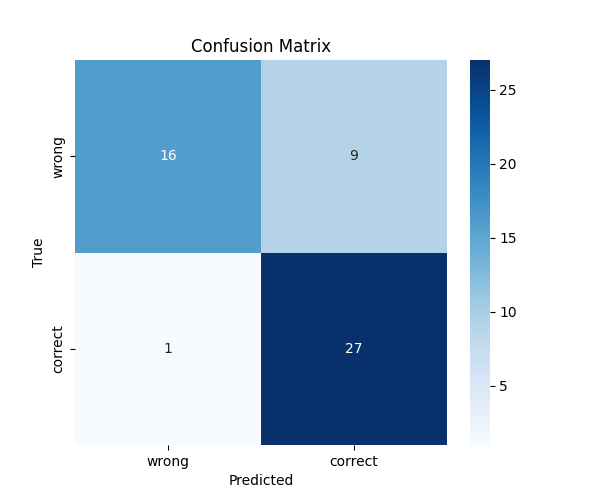
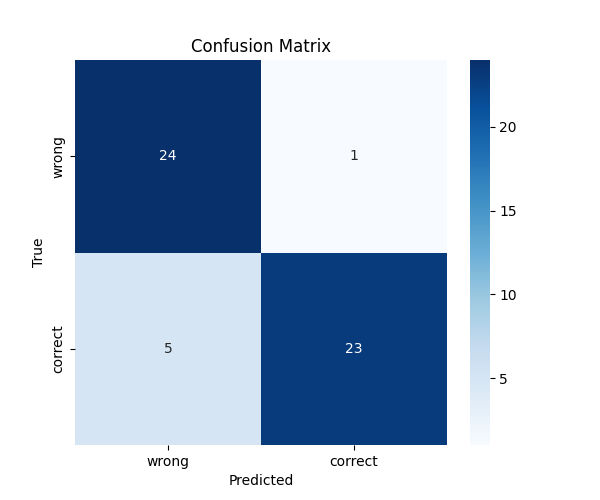
updated with gru

diff --git a/classification_models/mediapipe/gru/train.py b/classification_models/mediapipe/gru/train.py
@@ -1,0 +1,155 @@
+import os
+import json
+import numpy as np
+import matplotlib.pyplot as plt
+import seaborn as sns # type: ignore
+from sklearn.metrics import confusion_matrix, accuracy_score # type: ignore
+from sklearn.model_selection import train_test_split # type: ignore
+from tensorflow.keras import layers, models, preprocessing # type: ignore
+
+# --- Setup results directory ---
+CURRENT_DIR = os.path.dirname(os.path.abspath(__file__))
+RESULTS_DIR = os.path.join(CURRENT_DIR, "results")
+os.makedirs(RESULTS_DIR, exist_ok=True)
+
+# --- Constants ---
+DATA_ROOT = "datasets/json/mediapipe"
+LABELS = {"correct": 1, "wrong": 0}
+NUM_KEYPOINTS = 33  # MediaPipe keypoints
+FEATURE_DIM = NUM_KEYPOINTS * 3  # x, y, z for each keypoint
+MAX_SEQ_LEN = 50  # Max number of frames per sequence
+EPOCHS = 100
+BATCH_SIZE = 16
+
+def extract_sequence_from_json(json_path):
+    with open(json_path, "r") as f:
+        data = json.load(f)
+    
+    sequence = []
+    for frame in data:
+        keypoints = frame.get("keypoints", [])
+        if len(keypoints) != NUM_KEYPOINTS:
+            # Skip frames that don't have expected number of keypoints
+            continue
+        flattened = []
+        for kp in keypoints:
+            flattened.extend([kp["x"], kp["y"], kp["z"]])
+        sequence.append(flattened)
+    return sequence
+
+def load_dataset():
+    X, y = [], []
+    for label in LABELS:
+        folder = os.path.join(DATA_ROOT, label)
+        for file in os.listdir(folder):
+            if file.endswith(".json"):
+                seq = extract_sequence_from_json(os.path.join(folder, file))
+                if seq:
+                    X.append(seq)
+                    y.append(LABELS[label])
+    return X, y
+
+def pad_sequences(X, maxlen=MAX_SEQ_LEN):
+    # Pad sequences to maxlen with zeros
+    padded = preprocessing.sequence.pad_sequences(
+        X, maxlen=maxlen, dtype='float32', padding='post', truncating='post', value=0.0
+    )
+    return padded
+
+def build_gru_model(input_shape):
+    model = models.Sequential([
+        layers.Masking(mask_value=0., input_shape=input_shape),
+        layers.GRU(64, return_sequences=True),
+        layers.GRU(32),
+        layers.Dense(32, activation='relu'),
+        layers.Dense(1, activation='sigmoid')
+    ])
+    model.compile(optimizer='adam', loss='binary_crossentropy', metrics=['accuracy'])
+    return model
+
+def main():
+    print("📦 Loading MediaPipe dataset...")
+    X_raw, y = load_dataset()
+    print(f"✅ Loaded {len(X_raw)} samples.")
+
+    # Pad sequences
+    X = pad_sequences(X_raw, maxlen=MAX_SEQ_LEN)
+    y = np.array(y)
+
+    # Split into train and val
+    X_train, X_val, y_train, y_val = train_test_split(X, y, test_size=0.2, random_state=42)
+
+    print(f"Training samples: {len(X_train)} | Validation samples: {len(X_val)}")
+
+    # Build model
+    model = build_gru_model(input_shape=(MAX_SEQ_LEN, FEATURE_DIM))
+
+    # Train
+    history = model.fit(
+        X_train, y_train,
+        epochs=EPOCHS,
+        batch_size=BATCH_SIZE,
+        validation_data=(X_val, y_val),
+        verbose=2
+    )
+
+    # Predict validation
+    y_val_pred_prob = model.predict(X_val).flatten()
+    y_val_pred = (y_val_pred_prob >= 0.5).astype(int)
+
+    # Metrics
+    train_acc = history.history['accuracy'][-1]
+    val_acc = history.history['val_accuracy'][-1]
+    total_acc = accuracy_score(y_val, y_val_pred)
+
+    print(f"Training accuracy: {train_acc:.4f}")
+    print(f"Validation accuracy: {val_acc:.4f}")
+    print(f"Total accuracy on validation set: {total_acc:.4f}")
+
+    # Confusion matrix
+    cm = confusion_matrix(y_val, y_val_pred)
+    plt.figure(figsize=(6,5))
+    sns.heatmap(cm, annot=True, fmt='d', cmap='Blues', xticklabels=['wrong', 'correct'], yticklabels=['wrong', 'correct'])
+    plt.title("Confusion Matrix")
+    plt.xlabel("Predicted")
+    plt.ylabel("True")
+    plt.tight_layout()
+    cm_path = os.path.join(RESULTS_DIR, "confusion_matrix.png")
+    plt.savefig(cm_path)
+    plt.close()
+
+    # Plot loss curves
+    plt.figure(figsize=(8,5))
+    plt.plot(history.history['loss'], label='Training Loss')
+    plt.plot(history.history['val_loss'], label='Validation Loss')
+    plt.xlabel('Epoch')
+    plt.ylabel('Loss')
+    plt.title('Training & Validation Loss')
+    plt.legend()
+    plt.tight_layout()
+    loss_path = os.path.join(RESULTS_DIR, "loss_curve.png")
+    plt.savefig(loss_path)
+    plt.close()
+
+    # Breakdown of training/validation samples by class
+    def breakdown_by_class(y_array):
+        unique, counts = np.unique(y_array, return_counts=True)
+        d = dict(zip(unique, counts))
+        return d.get(1, 0), d.get(0, 0)  # correct, wrong
+
+    train_correct, train_wrong = breakdown_by_class(y_train)
+    val_correct, val_wrong = breakdown_by_class(y_val)
+
+    # Write results
+    results_txt = os.path.join(RESULTS_DIR, "results.txt")
+    with open(results_txt, "w") as f:
+        f.write(f"Training accuracy: {train_acc:.4f}\n")
+        f.write(f"Validation accuracy: {val_acc:.4f}\n")
+        f.write(f"Total accuracy (val set): {total_acc:.4f}\n\n")
+        f.write(f"Training samples: {len(y_train)} (Correct: {train_correct}, Wrong: {train_wrong})\n")
+        f.write(f"Validation samples: {len(y_val)} (Correct: {val_correct}, Wrong: {val_wrong})\n")
+
+    print(f"Results saved to {RESULTS_DIR}")
+
+if __name__ == "__main__":
+    main()

diff --git a/classification_models/movenet/gru/train.py b/classification_models/movenet/gru/train.py
@@ -1,0 +1,140 @@
+import os
+import json
+import numpy as np
+import matplotlib.pyplot as plt
+import seaborn as sns # type: ignore
+from sklearn.metrics import confusion_matrix, accuracy_score # type: ignore
+from sklearn.model_selection import train_test_split # type: ignore
+from tensorflow.keras import layers, models, preprocessing # type: ignore
+
+# --- Setup results directory ---
+CURRENT_DIR = os.path.dirname(os.path.abspath(__file__))
+RESULTS_DIR = os.path.join(CURRENT_DIR, "results")
+os.makedirs(RESULTS_DIR, exist_ok=True)
+
+# --- Constants ---
+DATA_ROOT = "datasets/json/movenet"
+LABELS = {"correct": 1, "wrong": 0}
+NUM_KEYPOINTS = 17  # MoveNet keypoints
+FEATURE_DIM = NUM_KEYPOINTS * 2  # x, y for each keypoint
+MAX_SEQ_LEN = 50  # Max number of frames per sequence
+
+def extract_sequence_from_json(json_path):
+    with open(json_path, "r") as f:
+        data = json.load(f)
+    
+    sequence = []
+    for frame in data:
+        keypoints = frame.get("keypoints", [])
+        if len(keypoints) != NUM_KEYPOINTS:
+            continue  # Skip if unexpected number of keypoints
+        flattened = []
+        for kp in keypoints:
+            flattened.extend([kp["x"], kp["y"]])
+        sequence.append(flattened)
+    return sequence
+
+def load_dataset():
+    X, y = [], []
+    for label in LABELS:
+        folder = os.path.join(DATA_ROOT, label)
+        for file in os.listdir(folder):
+            if file.endswith(".json"):
+                seq = extract_sequence_from_json(os.path.join(folder, file))
+                if seq:
+                    X.append(seq)
+                    y.append(LABELS[label])
+    return X, y
+
+def pad_sequences(X, maxlen=MAX_SEQ_LEN):
+    padded = preprocessing.sequence.pad_sequences(
+        X, maxlen=maxlen, dtype='float32', padding='post', truncating='post', value=0.0
+    )
+    return padded
+
+def build_gru_model(input_shape):
+    model = models.Sequential([
+        layers.Masking(mask_value=0., input_shape=input_shape),
+        layers.GRU(64, return_sequences=True),
+        layers.GRU(32),
+        layers.Dense(32, activation='relu'),
+        layers.Dense(1, activation='sigmoid')
+    ])
+    model.compile(optimizer='adam', loss='binary_crossentropy', metrics=['accuracy'])
+    return model
+
+def main():
+    print("📦 Loading MoveNet dataset...")
+    X_raw, y = load_dataset()
+    print(f"✅ Loaded {len(X_raw)} samples.")
+
+    X = pad_sequences(X_raw, maxlen=MAX_SEQ_LEN)
+    y = np.array(y)
+
+    X_train, X_val, y_train, y_val = train_test_split(X, y, test_size=0.2, random_state=42)
+    print(f"Training samples: {len(X_train)} | Validation samples: {len(X_val)}")
+
+    model = build_gru_model(input_shape=(MAX_SEQ_LEN, FEATURE_DIM))
+
+    history = model.fit(
+        X_train, y_train,
+        epochs=30,
+        batch_size=16,
+        validation_data=(X_val, y_val),
+        verbose=2
+    )
+
+    y_val_pred_prob = model.predict(X_val).flatten()
+    y_val_pred = (y_val_pred_prob >= 0.5).astype(int)
+
+    train_acc = history.history['accuracy'][-1]
+    val_acc = history.history['val_accuracy'][-1]
+    total_acc = accuracy_score(y_val, y_val_pred)
+
+    print(f"Training accuracy: {train_acc:.4f}")
+    print(f"Validation accuracy: {val_acc:.4f}")
+    print(f"Total accuracy on validation set: {total_acc:.4f}")
+
+    cm = confusion_matrix(y_val, y_val_pred)
+    plt.figure(figsize=(6,5))
+    sns.heatmap(cm, annot=True, fmt='d', cmap='Blues', xticklabels=['wrong', 'correct'], yticklabels=['wrong', 'correct'])
+    plt.title("Confusion Matrix")
+    plt.xlabel("Predicted")
+    plt.ylabel("True")
+    plt.tight_layout()
+    cm_path = os.path.join(RESULTS_DIR, "confusion_matrix.png")
+    plt.savefig(cm_path)
+    plt.close()
+
+    plt.figure(figsize=(8,5))
+    plt.plot(history.history['loss'], label='Training Loss')
+    plt.plot(history.history['val_loss'], label='Validation Loss')
+    plt.xlabel('Epoch')
+    plt.ylabel('Loss')
+    plt.title('Training & Validation Loss')
+    plt.legend()
+    plt.tight_layout()
+    loss_path = os.path.join(RESULTS_DIR, "loss_curve.png")
+    plt.savefig(loss_path)
+    plt.close()
+
+    def breakdown_by_class(y_array):
+        unique, counts = np.unique(y_array, return_counts=True)
+        d = dict(zip(unique, counts))
+        return d.get(1, 0), d.get(0, 0)  # correct, wrong
+
+    train_correct, train_wrong = breakdown_by_class(y_train)
+    val_correct, val_wrong = breakdown_by_class(y_val)
+
+    results_txt = os.path.join(RESULTS_DIR, "results.txt")
+    with open(results_txt, "w") as f:
+        f.write(f"Training accuracy: {train_acc:.4f}\n")
+        f.write(f"Validation accuracy: {val_acc:.4f}\n")
+        f.write(f"Total accuracy (val set): {total_acc:.4f}\n\n")
+        f.write(f"Training samples: {len(y_train)} (Correct: {train_correct}, Wrong: {train_wrong})\n")
+        f.write(f"Validation samples: {len(y_val)} (Correct: {val_correct}, Wrong: {val_wrong})\n")
+
+    print(f"Results saved to {RESULTS_DIR}")
+
+if __name__ == "__main__":
+    main()
